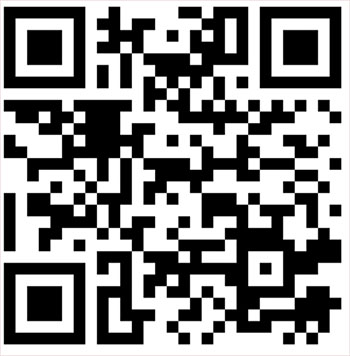
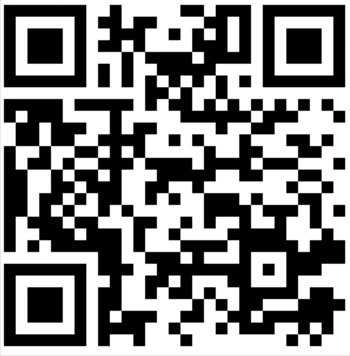
3dCar

diff --git a/README.md b/README.md
@@ -6,6 +6,6 @@
 
 ## 手机扫码
 
-![image](https://raw.githubusercontent.com/bobby169/3dCar/master/img/qrcode.jpg?v=2)
+![image](https://raw.githubusercontent.com/bobby169/3dCar/master/img/qrcode.jpg?v=3)
 
 ## License MIT
